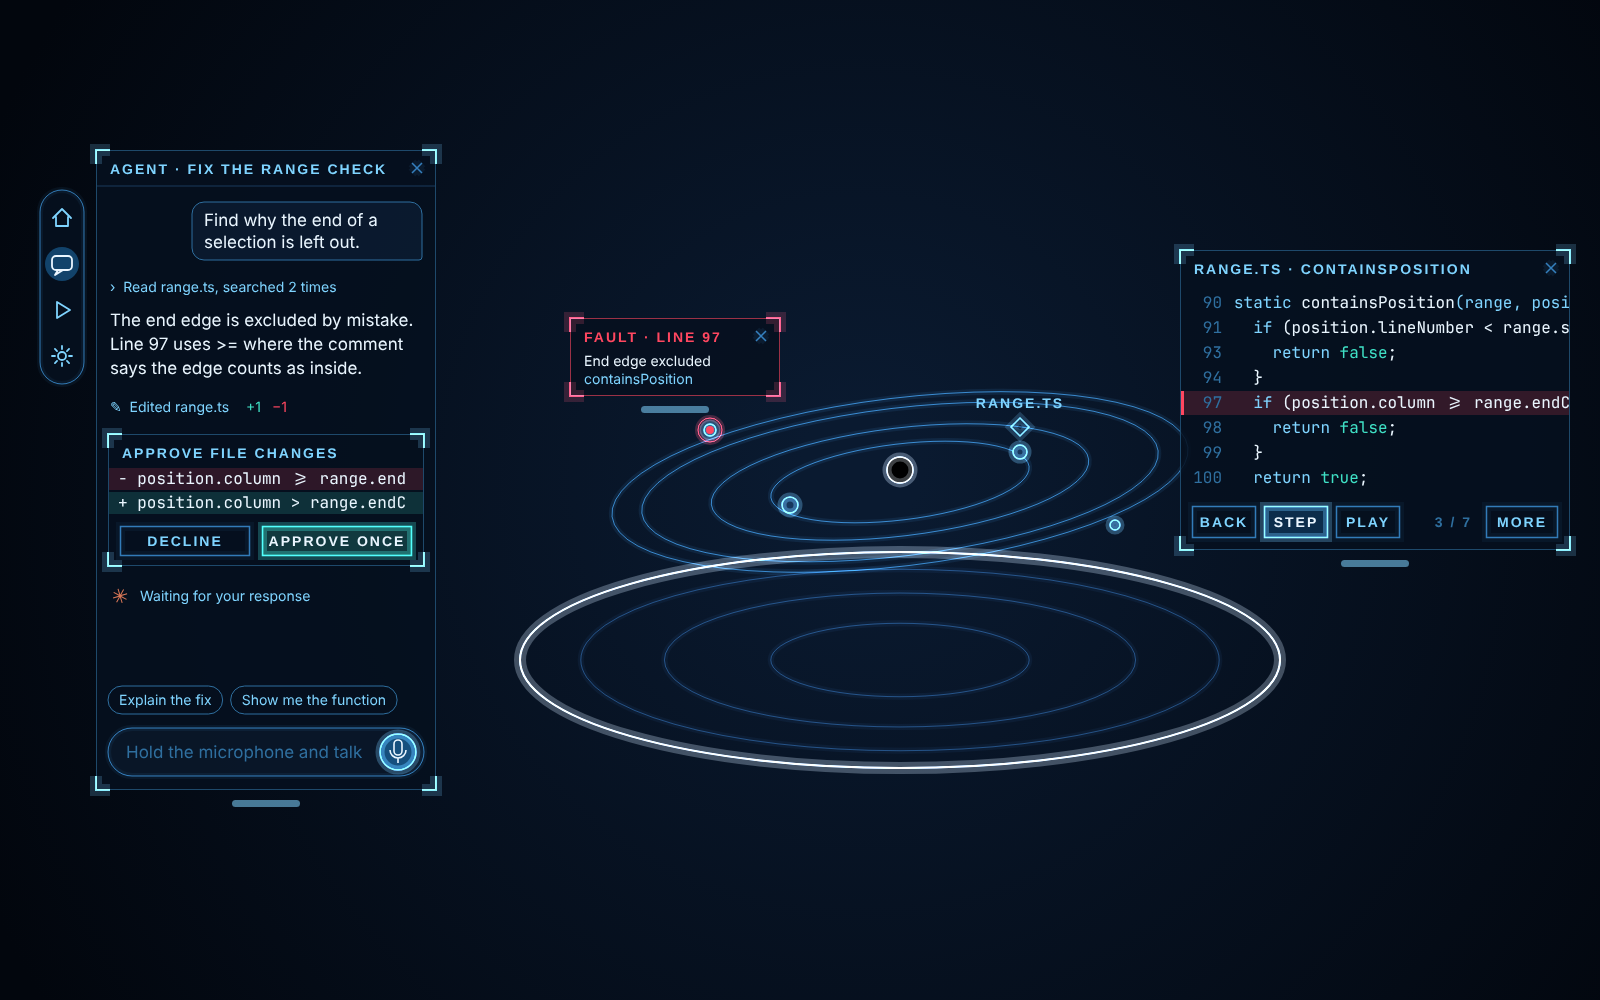
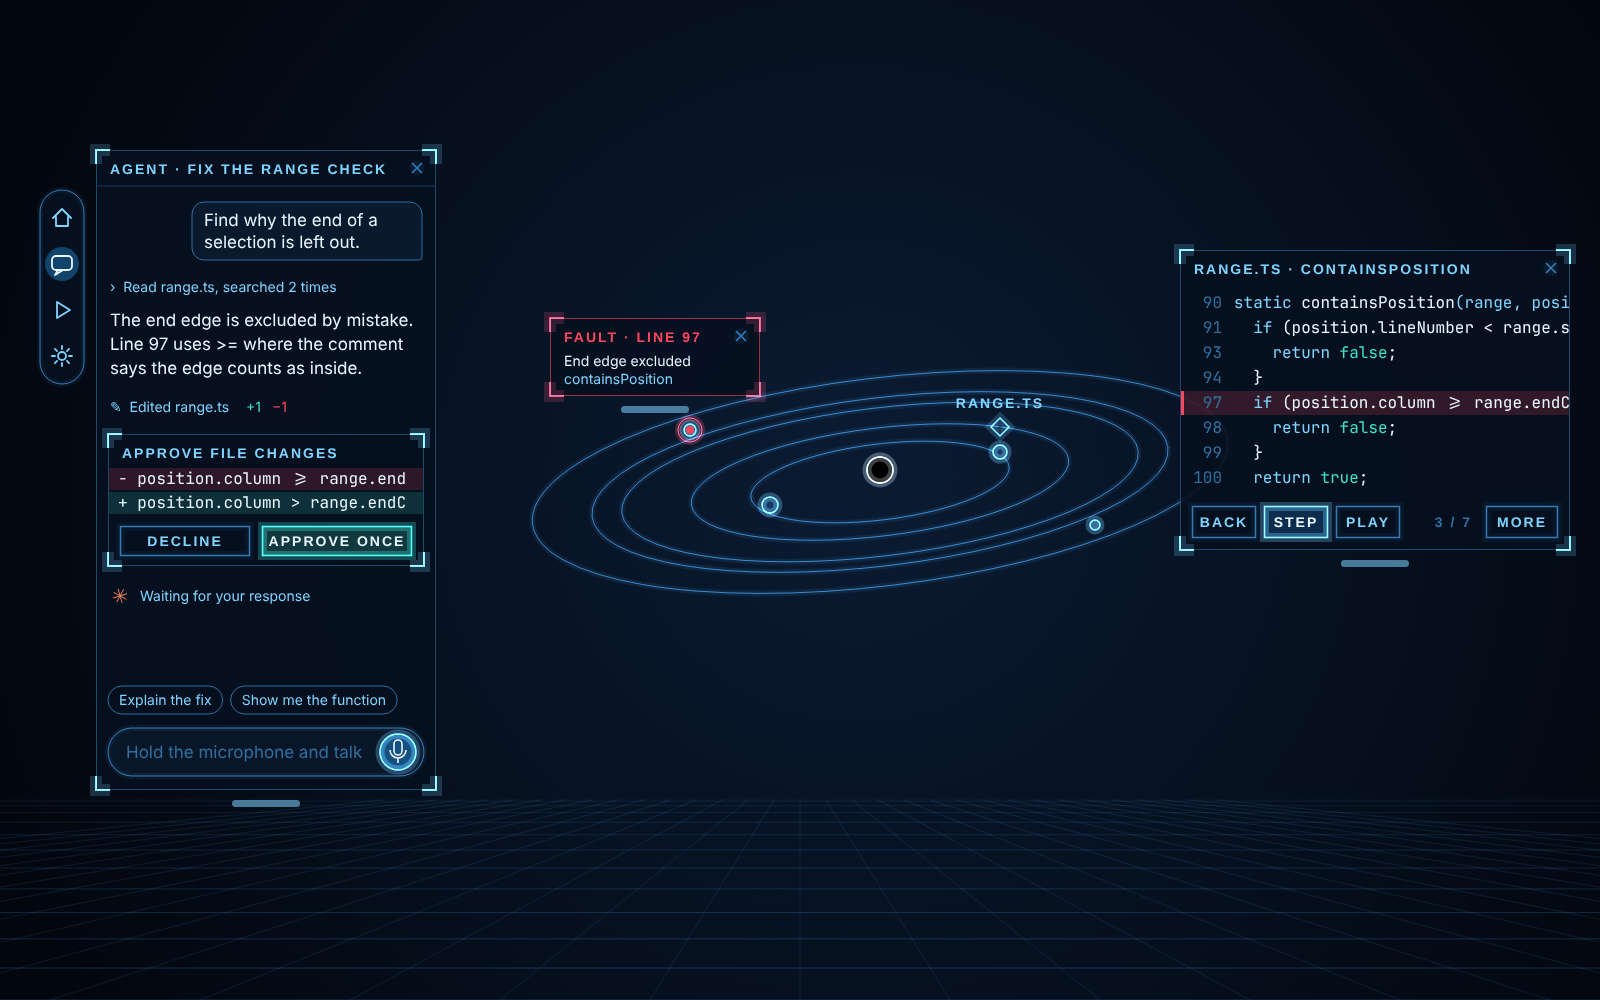
Remove the table: the model floats in the air
The owner asked why a table was needed, and it was not. The model now
floats at an invisible anchor, larger and more central, with nothing
under it. A dark floor with a faint grid stays, because a model among
stars with no floor or horizon can make people feel unanchored.

The style guide, the reference sheet, the design and the change list
for the working agent are updated: the anchor's numbers change, and the
room task builds only the floor.

Claude-Session: https://claude.ai/code/session_01HfJpRSzyipxSqaMhup3wNS

Changed region(s): [[0.3438, 0.31, 0.7812, 0.62], [0.0, 0.992, 1.0, 1.0], [0.3125, 0.62, 0.8125, 0.775]]

diff --git a/docs/style/mock.html b/docs/style/mock.html
@@ -93,12 +93,16 @@
       const bg = x.createRadialGradient(860, 470, 60, 860, 520, 950);
       bg.addColorStop(0, '#0a1a30'); bg.addColorStop(1, '#02060d'); x.fillStyle = bg; x.fillRect(0, 0, 1600, 1000);
 
-      // The table and the model: most of the view stays empty.
-      const TX = 900, TY = 660;
-      const rim = new Path2D(); rim.ellipse(TX, TY, 380, 108, 0, 0, Math.PI * 2); glowStroke(x, rim, T.white, 2, 1.4);
-      for (const k of [0.34, 0.62, 0.84]) { const g = new Path2D(); g.ellipse(TX, TY, 380 * k, 108 * k, 0, 0, Math.PI * 2); glowStroke(x, g, T.grid, 1, 0.8); }
+      // The floor: a faint grid far below, so the room has a horizon. There is no table.
+      x.save(); x.globalCompositeOperation = 'lighter'; x.strokeStyle = T.grid; x.lineWidth = 1;
+      for (let i = 0; i <= 12; i++) { const yy = 800 + (i / 12) ** 2 * 200; x.globalAlpha = 0.12 + (i / 12) * 0.5; x.beginPath(); x.moveTo(0, yy); x.lineTo(1600, yy); x.stroke(); }
+      for (let i = -16; i <= 16; i++) { x.globalAlpha = 0.28; x.beginPath(); x.moveTo(800 + i * 26, 800); x.lineTo(800 + i * 150, 1000); x.stroke(); }
+      x.restore();
+
+      // The model floats in the middle of the view; most of the view stays empty.
+      const TX = 880;
       const bodies = [[TX, 470], [TX - 110, 505], [TX + 120, 452], [TX - 190, 430], [TX + 215, 525]];
-      [[130, 38], [190, 54], [260, 74], [290, 84]].forEach(([rx, ry]) => { const o = new Path2D(); o.ellipse(TX, 482, rx, ry, -0.12, 0, Math.PI * 2); glowStroke(x, o, T.lineDim, 1, 0.7); });
+      [[130, 38], [190, 54], [260, 74], [290, 84], [350, 104]].forEach(([rx, ry]) => { const o = new Path2D(); o.ellipse(TX, 482, rx, ry, -0.12, 0, Math.PI * 2); glowStroke(x, o, T.lineDim, 1, 0.7); });
       bodies.forEach(([bx, by], i) => { const b = new Path2D(); b.arc(bx, by, i ? 9 - i : 13, 0, Math.PI * 2); x.fillStyle = i ? '#17385c' : '#000'; x.fill(b); glowStroke(x, b, i ? T.line : T.white, 1.5, 1.5); });
 
       // The selected file: a label and a diamond, nothing more.

diff --git a/docs/plans/changes-after-review.md b/docs/plans/changes-after-review.md
@@ -21,21 +21,24 @@ in one commit named `Apply the design review changes` before your next task, and
 7. **The chat keeps the shape of the desktop chat box**, narrow, in the new theme, with
    ordinary Approve and Decline buttons.
 8. **No charts or graphs anywhere.**
-9. **Unchanged:** towns are still laid out with one building per statement, and buildings
+9. **No table.** The model floats in the air in front of the user. A dark floor with a
+   faint grid is the only fixed thing in the room, for comfort.
+10. **Unchanged:** towns are still laid out with one building per statement, and buildings
    and code lines are still linked in both directions.
 
 ## M1 + M2 plan (`m1-m2-galaxy-and-code.md`)
 
 | Task | Change |
 | --- | --- |
+| 5 The galaxy system, Step 3 | The anchor is an invisible point in the air, not a table top: position `[0, 1.05, -0.95]`, orientation pitched 20° down from level, width `1.0`, `minScale 0.0005`, `maxScale 5`. The names `tablePose` and `TableAnchor` in `src/core/table-frame.ts` stay as they are; only the numbers change. Screenshots now show the model floating, larger, in the middle of the view. |
 | 6 Labels | The selected file's or function's label is a marker: micro label over a small diamond. No pointer triangle. |
 | 10 Info cards, loading, errors | `CanvasPanel` becomes a **window**: glass panel, close mark, and a grab bar beneath it that moves the window when pinched and dragged (give the window's entity a grab component for translate and rotate, constrained to 0.5–1.4 m from the seat; pressing the close mark hides it). Do **not** show a card when a file is pinned or hovered: ignore context items whose key starts with `file:`. Keep cards for the other context items the copied code raises (the cannon, the station, the moon) as **attached cards**: placed 12 cm above and 8 cm to the side of their anchor, no line. Loading and error cards are unchanged. |
-| 11 The room | The table is a bright rim with faint ring guides, as in the style page. |
+| 11 The room | **No table.** Build only the floor: a large dark disc at height 0 with a faint grid in `grid` that fades with distance, and keep the star field. Nothing sits under the model. The check becomes: the screenshot shows the model floating above a faint floor grid, with no disc or rim under it. Commit: `Add a floor so the room has a stable frame`. |
 | 14 The code page | Becomes the **code card**: 0.46 × 0.34 m, about 12 rows (`rows: 12`, `columns: 56`), on a 1380 × 1020 canvas with 26 px code text. It opens to the right of the model when `codeView` gains a selected function or range, and closes when the selection clears or its close mark is pressed. Footer: `More` toggles 12 and 24 rows (the card grows downward). Remove the `Function / Whole file`, `Page up` and `Page down` buttons; a vertical drag still scrolls, and the range shown is always the selected function with 3 lines of context. Update the tests in `code-view.test.ts` to these numbers. In `layout.ts`, `codePage` becomes `codeCard` at its new size and the test's limits still apply. |
 | 15 Linking | Unchanged, except that there are no page buttons to wire. `showCode(path, line)` opens the card. |
 | 16 Dock and palm menu | **Replaced.** Build the **chat window shell** now, so navigation has a home: a window 0.40 × 0.72 m at `agentPanel`, titled "Agent", with an empty transcript area showing "The agent arrives in the next milestone", and the **tab strip** on its left edge with four icons: Home (calls `goHome()`), Chat (shows the window if hidden), Replay (disabled for now), Settings (disabled for now). Do not build a dock, a ring menu or a palm menu, and do not add `state.palmMenu`. Files: `src/panels/draw-chat-shell.ts`, `src/panels/draw-tab-strip.ts`, `src/systems/chat-window-system.ts`. Check: in the emulator, pinch the Home tab and see the phase return to `overview`; pinch the window's grab bar, move, and see the window follow. Commit: `Add the chat window shell and its tab strip`. |
 | 17 Choosing a project | **Replaced.** With no `?dataset=`, the app opens `editor-core` directly. Still write `public/data/index.json` and `DatasetPort.list()`; the settings tab uses them in the next plan. Do not build picker cards. The check becomes: without a query the phase reaches `overview` with 229 files. Commit: `Open the demo project directly`. |
-| 18 Tutorial | The tutorial card is 0.30 × 0.10 m above the table. `Help` no longer exists; the tutorial restarts from Settings in the next plan, and from `__orrery.commands.restartTutorial()` now. |
+| 18 Tutorial | The tutorial card is 0.30 × 0.10 m above the model. `Help` no longer exists; the tutorial restarts from Settings in the next plan, and from `__orrery.commands.restartTutorial()` now. |
 | 19 Review | Drop the palm-menu line from the report. Add: confirm the code card is absent until a function is picked and gone after the selection is cleared. |
 
 ## M3 + M4 plan (`m3-m4-agent-and-polish.md`)

diff --git a/docs/visual-style.md b/docs/visual-style.md
@@ -12,10 +12,11 @@ The reference sheet is `docs/style/hologram-reference.png`, and the code that dr
 
 ## The room stays empty
 
-The model on the table is the subject. Everything else is small and leaves when it is
-not needed.
+The model floating in front of you is the subject. Everything else is small and leaves
+when it is not needed.
 
-- **One standing window: the chat.** It is narrow and sits to the left of the table.
+- **No table.** The model floats in the air at chest height. Nothing sits under it.
+- **One standing window: the chat.** It is narrow and sits to the left of the model.
 - **Code is not a standing window.** A small code card appears only while a function is
   picked or the agent points at code, and goes away afterwards.
 - **No menus in the room.** Navigation is a slim strip on the chat window's edge.
@@ -29,7 +30,7 @@ not needed.
 
 The owner's reference is the ship interfaces in the film *Passengers* (2016), made by
 the team at MPC London. All 34 frames in the gallery listed under Sources were studied.
-What we take is a **design language**: a see-through model floating over a table, fine
+What we take is a **design language**: a see-through model floating in the room, fine
 lines of cool light on dark glass, red for a fault, small capital labels, and thin white
 text on glass. Window behaviour follows the conventions of spatial computers such as
 visionOS: a window floats where you put it, is moved by a short bar beneath it, and
@@ -62,7 +63,7 @@ colour or a font anywhere else.
 | Token | Value | Used for |
 | --- | --- | --- |
 | `ink` | `#06101f` at 88% opacity | The backing of every window |
-| `grid` | `#1b3b5c` | Faint rules, the table's ring guides, dividers |
+| `grid` | `#1b3b5c` | Faint rules, the floor's grid, dividers |
 | `lineDim` | `#2f6f9f` | Resting outlines, line numbers, orbits, placeholder text |
 | `line` | `#7fd4ff` | Active outlines, labels, keywords in code, secondary text |
 | `glow` | `#2aa7ff` | The fill of a hovered or pressed control, selection bands |
@@ -97,7 +98,7 @@ first window is drawn. Sizes scale with the `textScale` setting.
 | Chat | 0.40 m wide, 0.72 m tall | Always, unless closed from its close mark; the Chat tab or a spoken "open chat" brings it back |
 | Code card | 0.46 m wide, 0.34 m tall, about 12 lines | Only while a function is picked, the agent points at code, or a replay is running |
 | Fault card and "show me" card | 0.24 m wide, 0.09 m tall | While the fault is unfixed; while the agent's pointer is active |
-| Tutorial card | 0.30 m wide, 0.10 m tall | During the tutorial only |
+| Tutorial card | 0.30 m wide, 0.10 m tall, above the model | During the tutorial only |
 
 ## Components
 
@@ -110,7 +111,7 @@ first window is drawn. Sizes scale with the `textScale` setting.
 | **Band** | A full-width strip at 16–18% opacity with a 3 px solid edge on the left: selected lines (`glow`), the bug line (`alert`), added (`ok`) and removed (`alert`) lines in a diff |
 | **Marker** | A micro label over a small diamond, above the selected file or function. No pointer triangle, no card |
 | **Fault dot** | A red dot with a halo on the model at the bug's location |
-| **The table** | A bright elliptical rim with faint ring guides inside it; the model floats a hand's width above |
+| **The floor** | A dark plane at floor level with a faint `grid` pattern that fades with distance. It is the only fixed thing in the room besides the stars, and it is there so the user has a horizon |
 
 ### The chat window
 
@@ -152,8 +153,10 @@ or from its close mark.
 
 ## In the room
 
-Additive light looks right against darkness, so the room stays dark: the star field, a
-dark floor, and the table's bright rim as the only "lighting". On three.js materials use
+Additive light looks right against darkness, so the room stays dark: the star field and
+a dark floor with a faint grid. The floor matters for comfort: a model floating among
+stars with no floor or horizon can make people feel unanchored. There is no table and
+no other furniture; the model's position is an invisible anchor. On three.js materials use
 additive blending with `depthWrite: false` and `toneMapped: false` for glowing lines, and
 keep window textures ordinary so their backing stays dark. Do not add a bloom
 post-process: it costs too much on a headset. The two-pass stroke is the glow.

diff --git a/docs/design.md b/docs/design.md
@@ -403,6 +403,7 @@ These replace the matching rows above and in §5. Details per task are in
 | Replay | Kept, without a timeline. Back, Step and Play sit on the code card |
 | Chat | The desktop chat box's shape, 0.40 m wide, in the new theme, with ordinary Approve and Decline buttons |
 | Charts | None anywhere |
+| Table | Removed. The model floats in the air at an invisible anchor, larger and more central; a dark floor with a faint grid gives the room a horizon |
 
 ## 5. Desktop UI to VR
 
